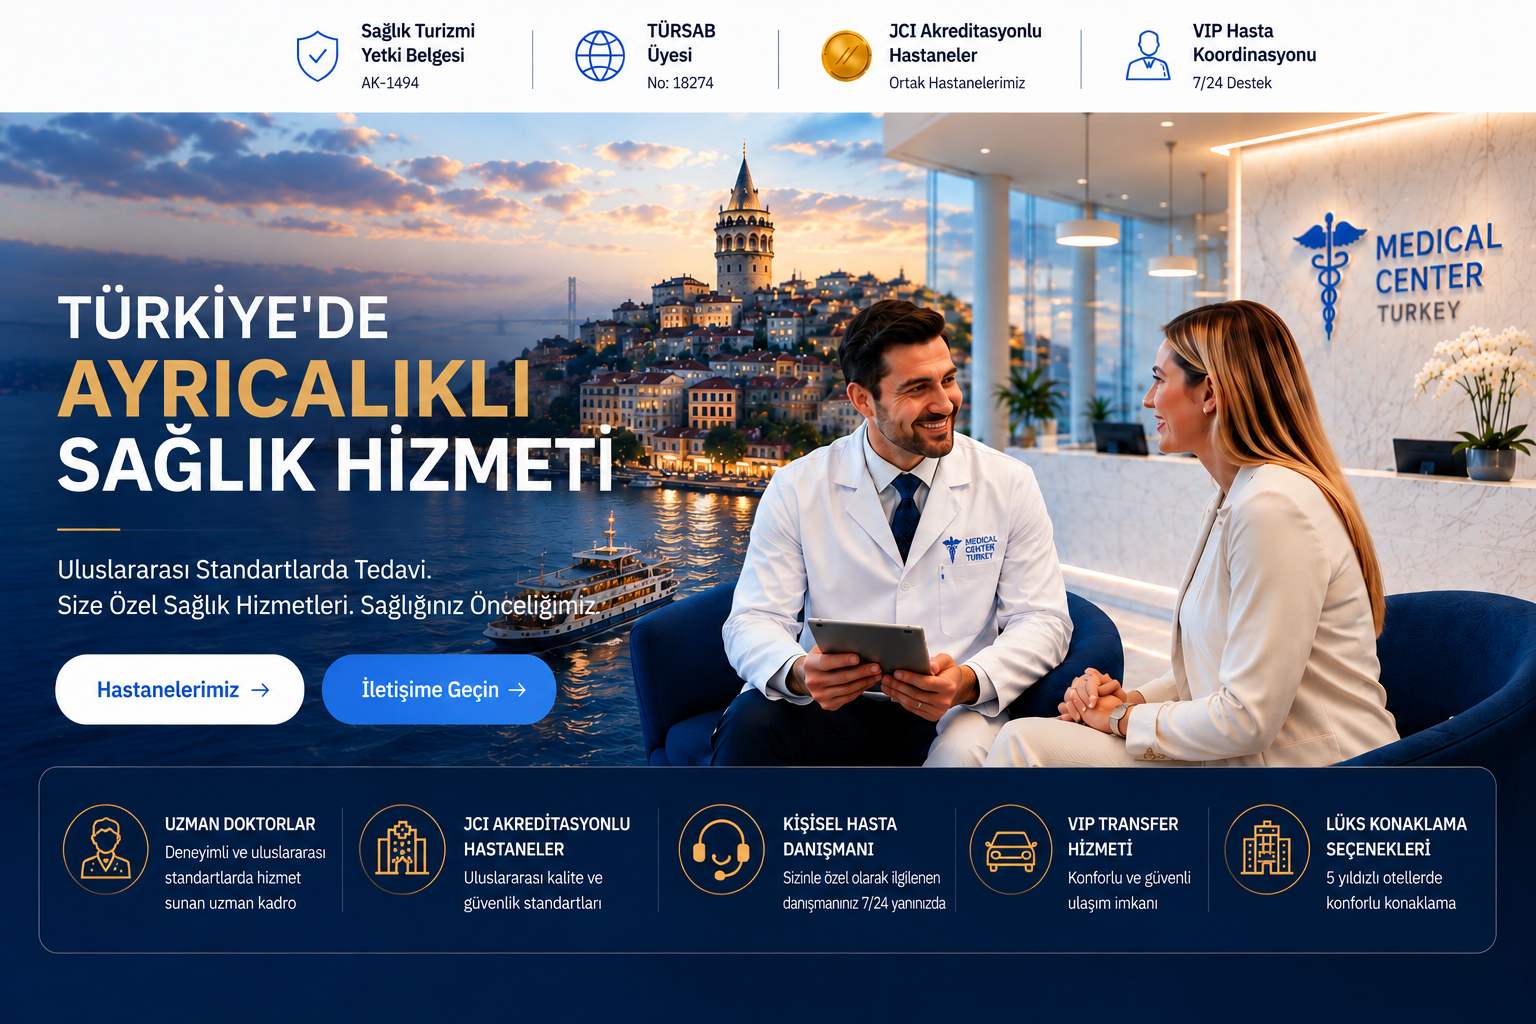
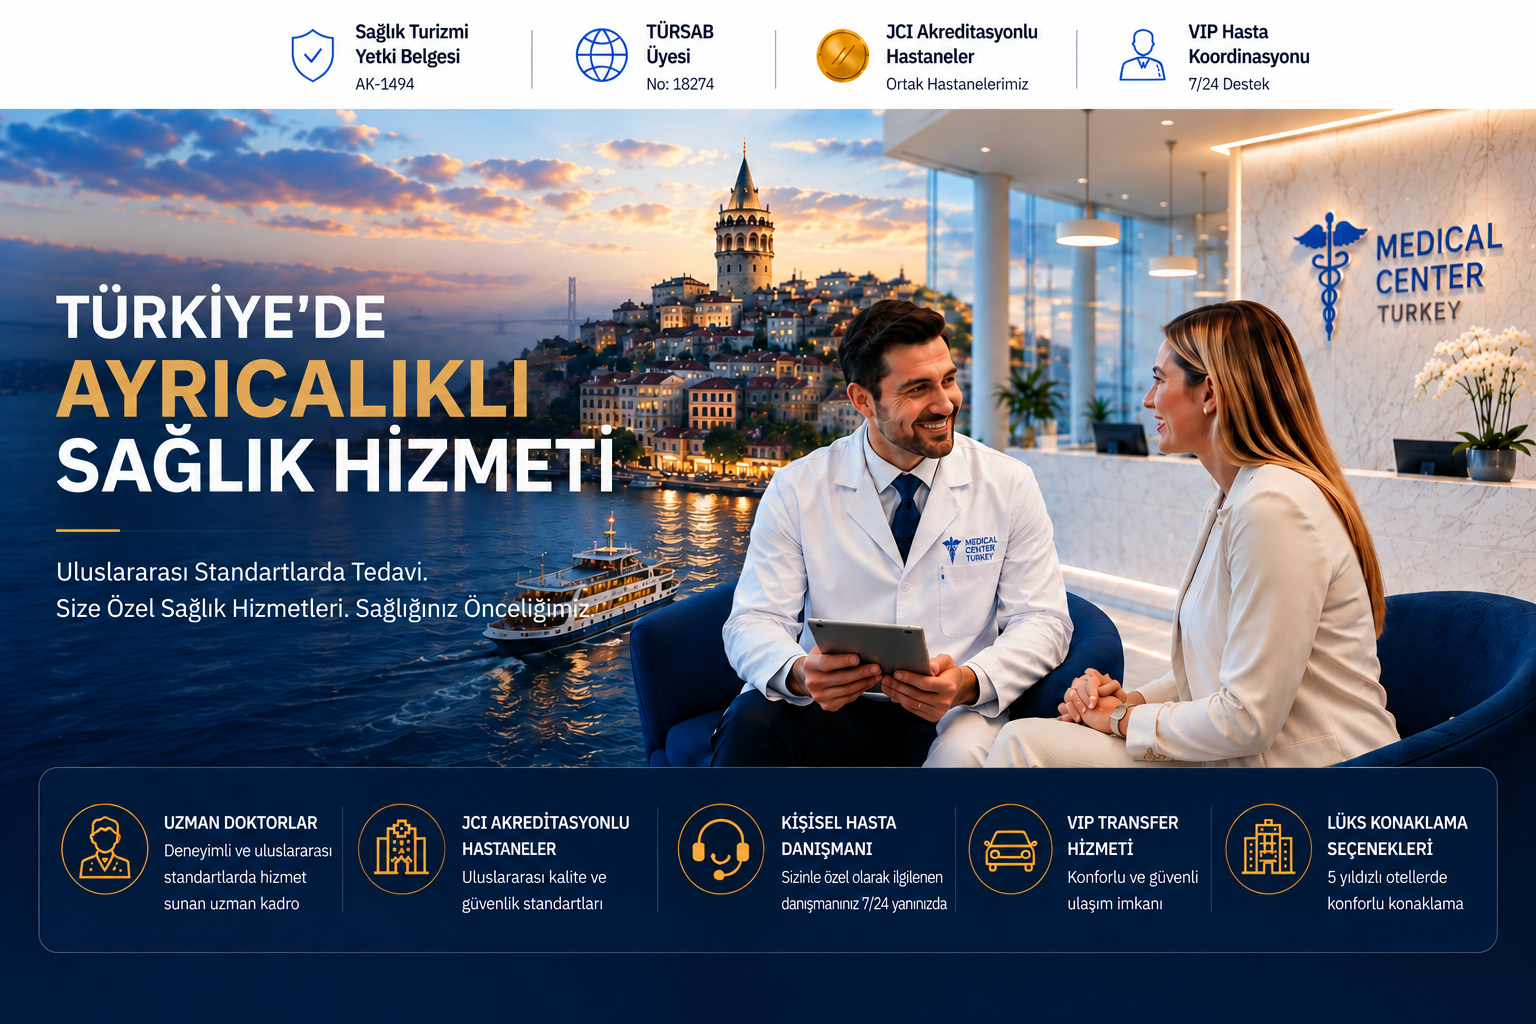
Remove CTA buttons from Turkish hero image
Swaps hero-tr.png for a buttonless version of the same scene (background
naturally reconstructed where the two CTA pills used to be, everything
else unchanged) and removes the now-pointless invisible click hotspots
that used to sit over them. The hero is now a purely illustrative image
with no functional overlay. Prior with-buttons version kept locally only
as hero-tr-with-buttons-backup.png (not committed).

diff --git a/components/marketing/medical-tourism-turkey-landing.tsx b/components/marketing/medical-tourism-turkey-landing.tsx
@@ -2,31 +2,27 @@
 
 import { useState } from "react";
 import Image from "next/image";
-import Link from "next/link";
 import { ChevronDown } from "lucide-react";
 import { MedicalTourismTurkeyProcess } from "./medical-tourism-turkey-process";
 import { ConsultationForm } from "./consultation-form";
 import { MEDICAL_TOURISM_TURKEY_FAQS as faqs } from "@/lib/medical-tourism-turkey-content";
 
-// Phase: TR mini-site Hero, final. public/hero-tr.png is a Turkish-localized
-// version of the English hero-son.png scene, supplied as a finished asset --
-// headline, subheadline, the 4 trust badges and the bottom 5-item feature
-// strip are all already baked into it in Turkish. Rendered at its natural
-// 1536x1024 ratio (w-full h-auto, same non-cropping pattern components/
-// marketing/hero.tsx already uses for the English version) so it is never
-// cropped or distorted at any width -- mobile included. No HTML text is
-// layered on top of it (would duplicate what's already in the image); the
-// two CTA pill shapes baked into the image are instead given real,
-// keyboard-focusable <Link>/<a> hit areas positioned over them in percent
-// coordinates (measured directly from the image's pixels), so they scale
-// together with the image at any viewport width and stay functional.
-// The separate HTML trust-badge row that used to sit above this section
-// was removed -- the image's own top strip already shows the same 4 badges,
-// and keeping both would duplicate them (see the brief's own instruction).
-const CTA_HOTSPOTS = [
-  { href: "/hospitals-in-turkey", label: "Hastanelerimiz", left: 4, top: 63.3, width: 16.3, height: 7.6, internal: true },
-  { href: "#iletisim", label: "İletişime Geçin", left: 22.1, top: 63.3, width: 15.8, height: 7.6, internal: false },
-] as const;
+// Phase: TR mini-site Hero, final (no CTA). public/hero-tr.png is a
+// Turkish-localized version of the English hero-son.png scene, supplied as
+// a finished asset -- headline, subheadline, the 4 trust badges and the
+// bottom 5-item feature strip are all already baked into it in Turkish.
+// The two CTA buttons that an earlier version of this image had baked in
+// were removed from the image itself (by whoever produces it) rather than
+// just hidden, and the clickable hotspots that used to sit over them were
+// removed from this component to match -- the image is purely illustrative
+// here, with no functional element layered on top of it. The pre-edit
+// version is kept at public/hero-tr-with-buttons-backup.png.
+// Rendered at its natural 1536x1024 ratio (w-full h-auto, same
+// non-cropping pattern components/marketing/hero.tsx already uses for the
+// English version) so it is never cropped or distorted at any width --
+// mobile included. The separate HTML trust-badge row that used to sit
+// above this section was removed earlier -- the image's own top strip
+// already shows the same 4 badges, and keeping both would duplicate them.
 
 export function MedicalTourismTurkeyLanding() {
   const [aboutExpanded, setAboutExpanded] = useState(false);
@@ -40,8 +36,7 @@ export function MedicalTourismTurkeyLanding() {
           section ids below (#hero, #hakkimizda, #surec, #sss, #iletisim)
           are unchanged so those header links still scroll correctly. */}
 
-      {/* Hero -- see the file-level comment above for how the CTA hotspots
-          are positioned over the image's own baked-in buttons. */}
+      {/* Hero -- purely illustrative image, no overlay, no CTA. */}
       <section id="hero" className="relative w-full overflow-hidden bg-brand-dark">
         <Image
           src="/hero-tr.png"
@@ -52,25 +47,6 @@ export function MedicalTourismTurkeyLanding() {
           sizes="100vw"
           className="w-full h-auto block"
         />
-        {CTA_HOTSPOTS.map((cta) =>
-          cta.internal ? (
-            <Link
-              key={cta.href}
-              href={cta.href}
-              aria-label={cta.label}
-              className="absolute rounded-full focus-visible:outline focus-visible:outline-2 focus-visible:outline-white focus-visible:outline-offset-2"
-              style={{ left: `${cta.left}%`, top: `${cta.top}%`, width: `${cta.width}%`, height: `${cta.height}%` }}
-            />
-          ) : (
-            <a
-              key={cta.href}
-              href={cta.href}
-              aria-label={cta.label}
-              className="absolute rounded-full focus-visible:outline focus-visible:outline-2 focus-visible:outline-white focus-visible:outline-offset-2"
-              style={{ left: `${cta.left}%`, top: `${cta.top}%`, width: `${cta.width}%`, height: `${cta.height}%` }}
-            />
-          )
-        )}
       </section>
 
       {/* Biz Kimiz? */}
